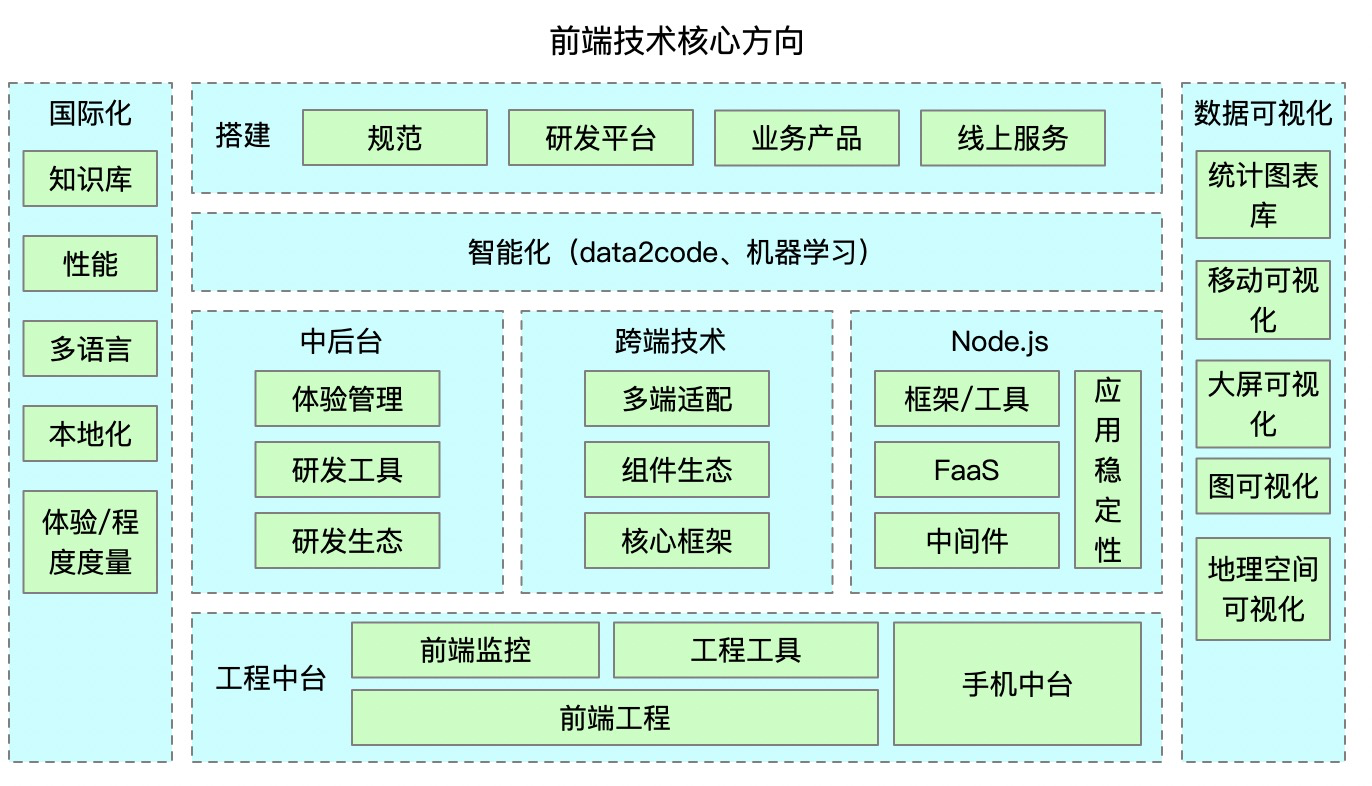
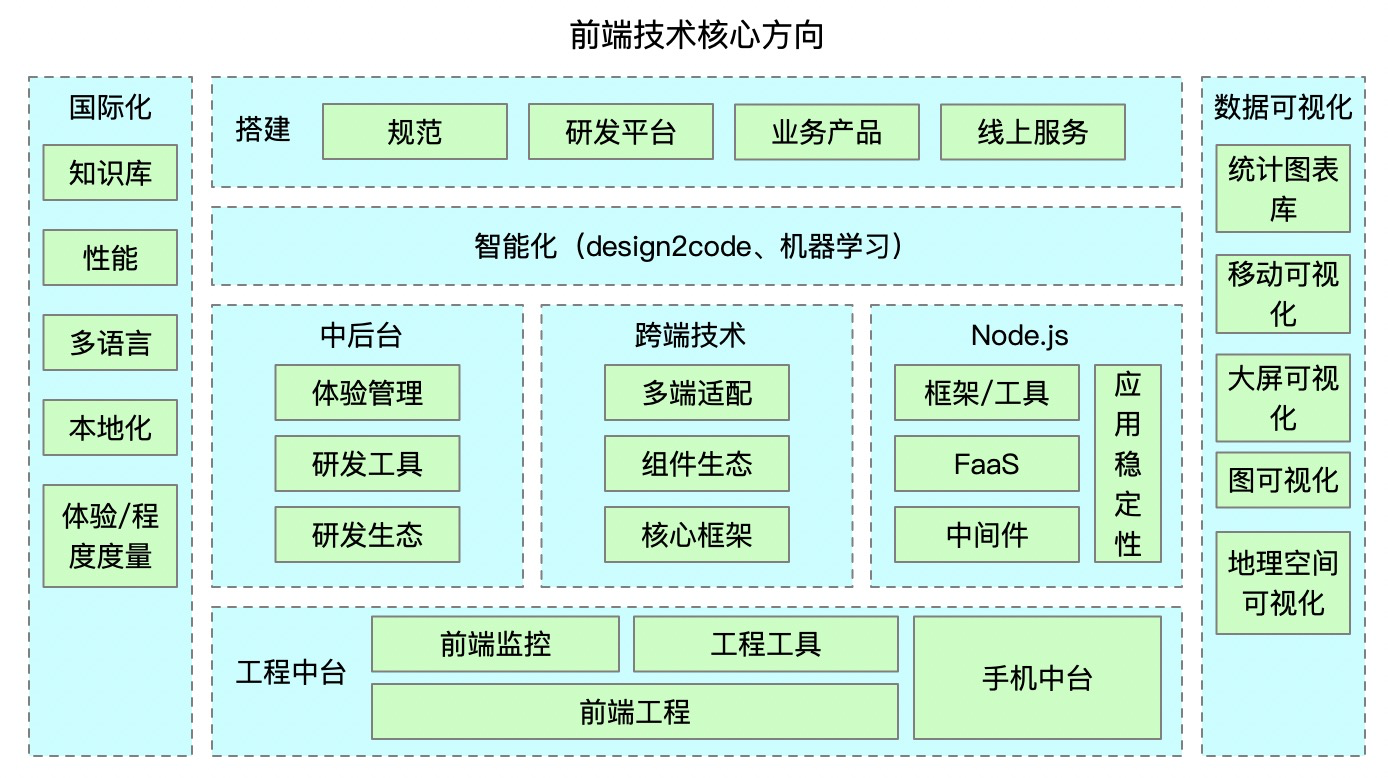
前端技术架构

Changed region(s): [[0.0, 0.0308, 1.0, 0.9871], [0.7041, 0.8329, 0.7959, 0.8946], [0.7347, 0.7712, 0.7959, 0.8021]]

diff --git a/zh-cn/architecture/lesson1.md b/zh-cn/architecture/lesson1.md
@@ -38,7 +38,7 @@
 
 搭建是解决业务增长规模和技术交付能力之间矛盾产生的解决方案。在技术上搭建核心可以用一句话描述：在离线环境组装模块（页面结构）和投放数据通过发布到在线环境完成渲染的页面制作方式。
 
-### 相关产品
+### 相关建设
 
 * 通用搭投服务：为搭投系统提供底层通用解决方案，管理模块生态；
 
@@ -49,3 +49,18 @@
 * 基于Node.js编写的服务端渲染模版的容器，提供全平台的统一前端模版渲染环境。
 
 * 面向用户体验的前端数据网关，面向前端提供了服务端JavaScript运行容器，可以作为简化的BFF中间层，面向后端提供了流量分组隔离、容灾的能力。
+
+## 二、智能化
+
+前端智能化，是指将智能化的能力应用到前端的场景。目前主要切入点是Design2code（设计生成代码），期望未来能够实现前端0研发。
+
+### 核心概念
+
+智能化是指使用机器学习等方案将传统的算法能力应用到目前的前端场景，通过结合前端自有的专业领域数据样本集构建出前端特色的智能化模型。
+
+Design2Code是设计稿生成代码，Code包含UI和Logic，丰富的样本数据集是支撑Design2Code核心识别能力的重要要素。
+
+### 相关建设
+
+* 由设计稿一键智能生成代码；
+* 让前端能够快速的使用深度学习；
